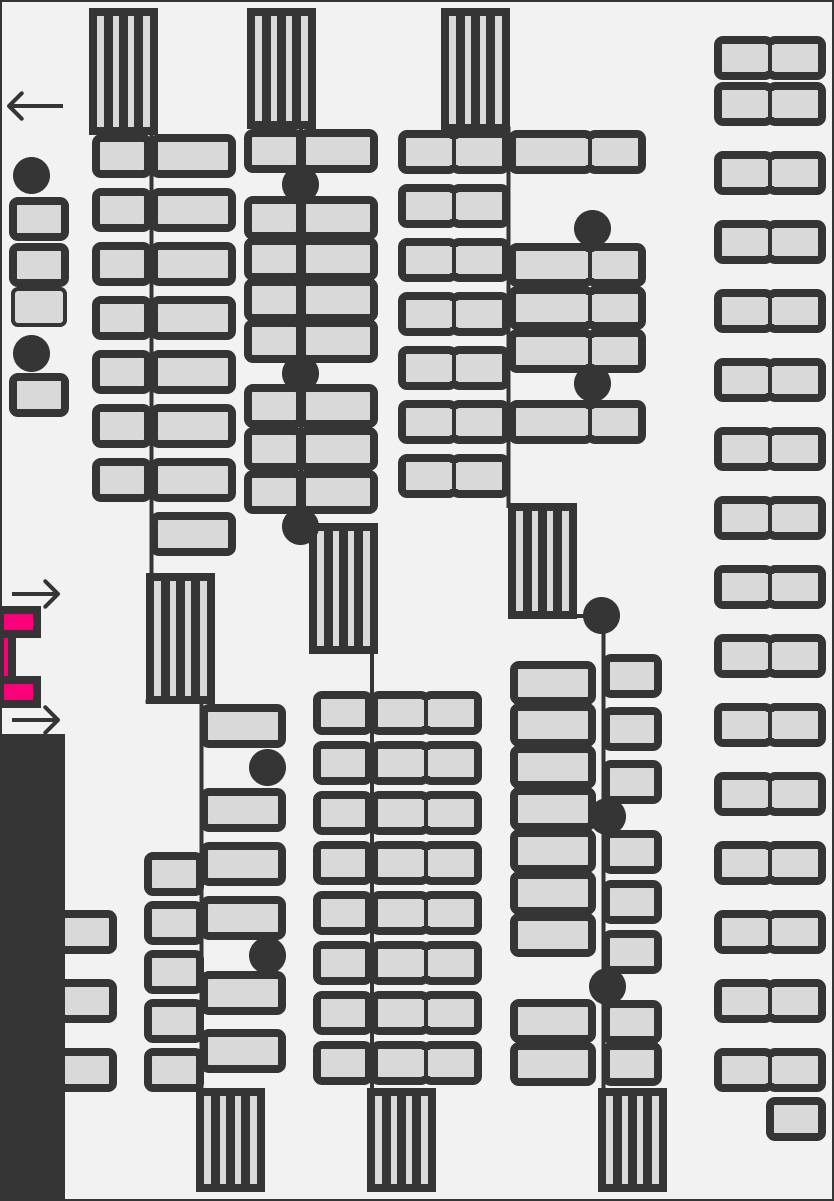
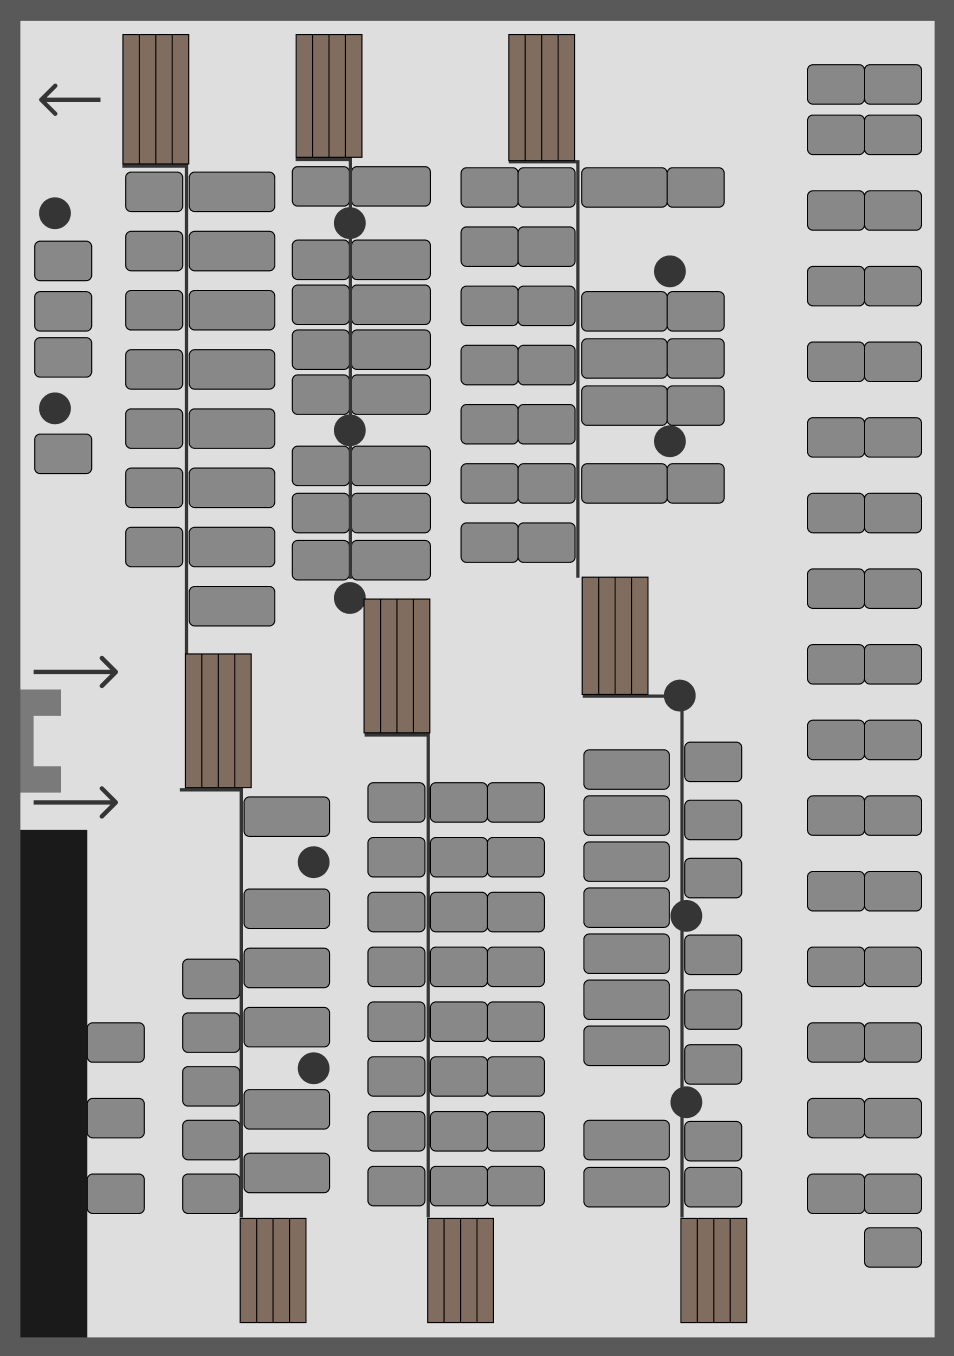
poly final

diff --git a/react-native-frontend/components/mensapage/Polymensa.tsx b/react-native-frontend/components/mensapage/Polymensa.tsx
@@ -1,5 +1,5 @@
-import React, { useEffect } from 'react';
-import { ScrollView, StyleSheet, TouchableWithoutFeedback, View, Dimensions, useWindowDimensions, Image } from 'react-native';
+import React, { useEffect, useRef} from 'react';
+import { ScrollView, StyleSheet, TouchableWithoutFeedback, View, Animated, Dimensions, useWindowDimensions, Image } from 'react-native';
 import { GestureHandlerRootView } from 'react-native-gesture-handler';
 import MapPolyterrase from '../MapPolyterrase';  // Import your Map component
 import MapPolyPC from '../MapPolyPC';  // Import your Map component
@@ -111,7 +111,7 @@ export default function Polymensa() {
        
         {areas.map((area, index) => (
           <TouchableOpacity key={index} style={[styles.touchableArea, {left: `${area.x}%`, top: `${area.y}%`}]} onPress={() => handleAreaPress(index)}>
-          {selected.includes(index) && <IconButton key={index} icon="map-marker" style={styles.iconButton} size={50} iconColor="red" onPress={() => handleAreaPress(index)} />}
+          {selected.includes(index) && (<IconButton key={index} icon="map-marker" style={styles.iconButton} size={50} iconColor={user?.currentIsPublic ? 'green' : colors.primary} onPress={() => handleAreaPress(index)} />)}
           </TouchableOpacity>
         ))} 
       </View>
@@ -200,6 +200,6 @@ const styles = StyleSheet.create({
   },
   iconButton: {
     position: 'absolute',
-    color: 'blue', 
+    backgroundColor: "rgba(0,0,0,0.3)", 
   },
 });
